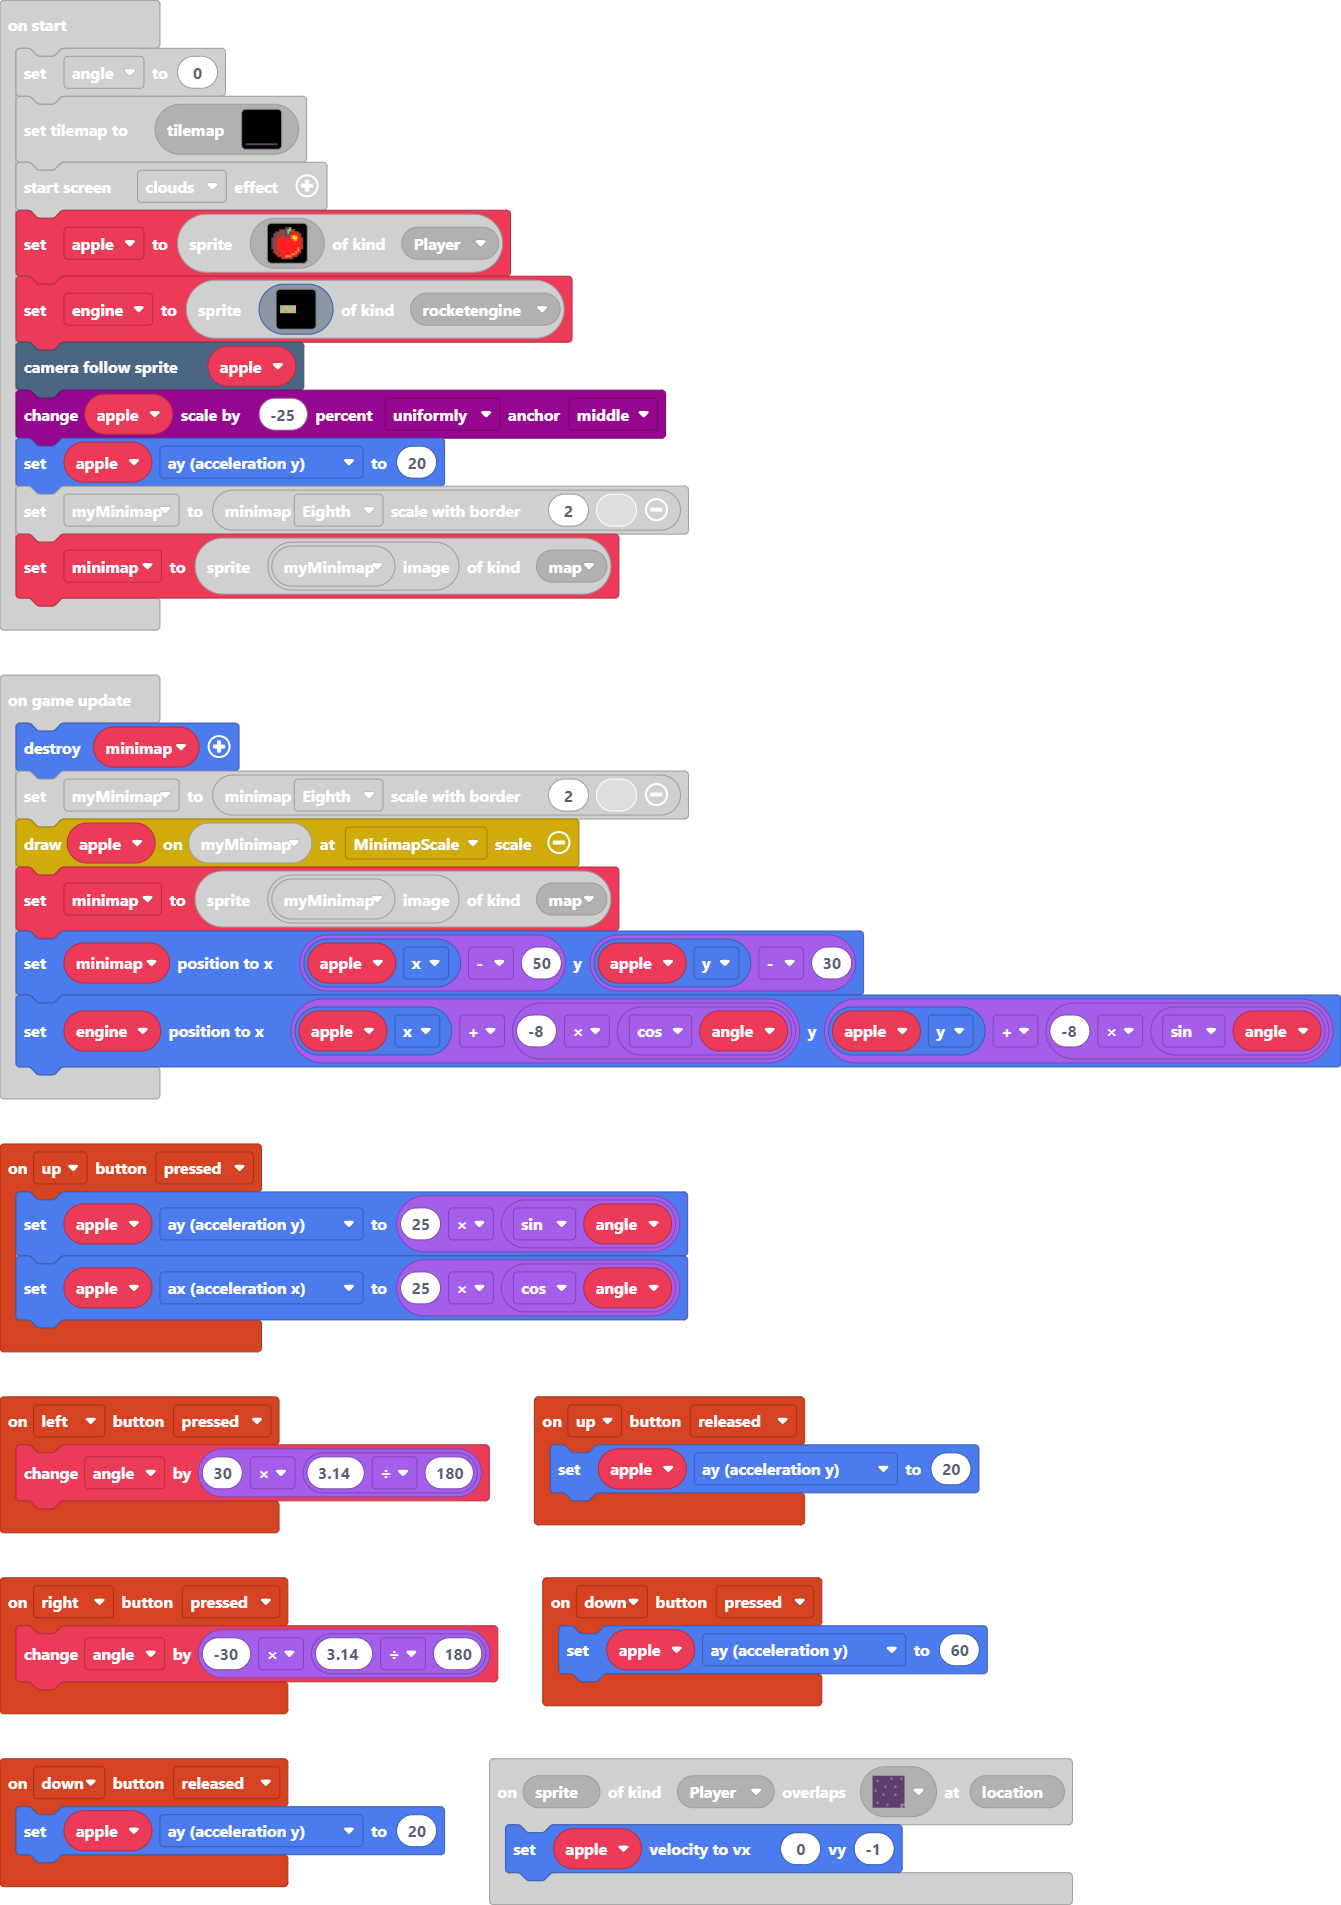
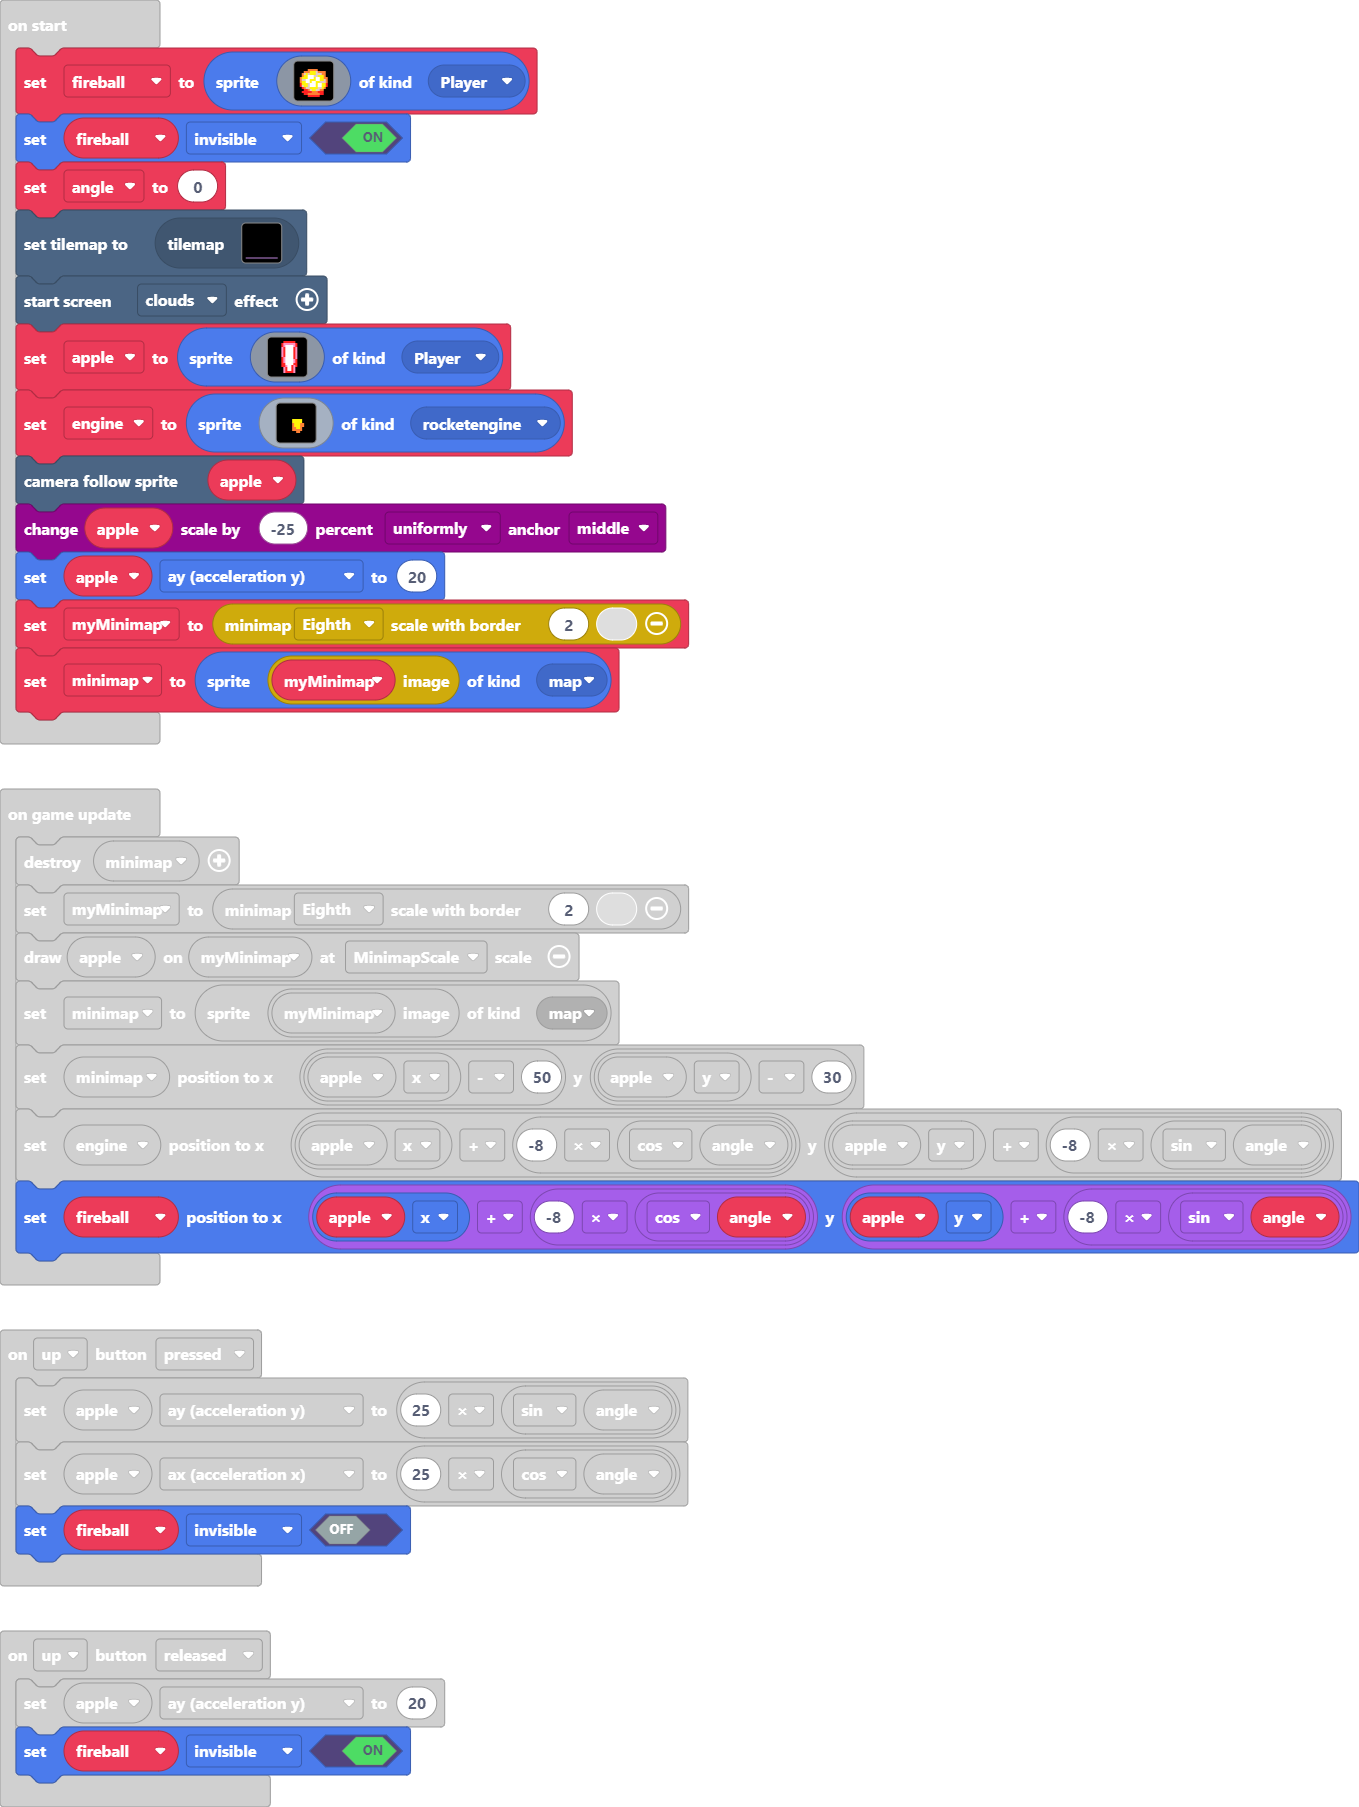
Update main.blocks, main.ts

diff --git a/main.ts b/main.ts
@@ -5,6 +5,7 @@ namespace SpriteKind {
 controller.up.onEvent(ControllerButtonEvent.Pressed, function () {
     apple.ay = 25 * Math.sin(angle)
     apple.ax = 25 * Math.cos(angle)
+    fireball.setFlag(SpriteFlag.Invisible, false)
 })
 controller.down.onEvent(ControllerButtonEvent.Released, function () {
     apple.ay = 20
@@ -20,36 +21,71 @@ controller.right.onEvent(ControllerButtonEvent.Pressed, function () {
 })
 controller.up.onEvent(ControllerButtonEvent.Released, function () {
     apple.ay = 20
+    fireball.setFlag(SpriteFlag.Invisible, true)
 })
 controller.down.onEvent(ControllerButtonEvent.Pressed, function () {
     apple.ay = 60
 })
 let apple: Sprite = null
 let angle = 0
+let fireball: Sprite = null
+fireball = sprites.create(img`
+    . . . . . . . . . . . . . . . . 
+    . . . . . . . . . . . . . . . . 
+    . . . . . 4 4 4 4 4 . . . . . . 
+    . . . 4 4 4 5 5 5 d 4 4 4 4 . . 
+    . . 4 d 5 d 5 5 5 d d d 4 4 . . 
+    . . 4 5 5 1 1 1 d d 5 5 5 4 . . 
+    . 4 5 5 5 1 1 1 5 1 1 5 5 4 4 . 
+    . 4 d d 1 1 5 5 5 1 1 5 5 d 4 . 
+    . 4 5 5 1 1 5 1 1 5 5 d d d 4 . 
+    . 2 5 5 5 d 1 1 1 5 1 1 5 5 2 . 
+    . 2 d 5 5 d 1 1 1 5 1 1 5 5 2 . 
+    . . 2 4 d d 5 5 5 5 d d 5 4 . . 
+    . . . 2 2 4 d 5 5 d d 4 4 . . . 
+    . . 2 2 2 2 2 4 4 4 2 2 2 . . . 
+    . . . 2 2 4 4 4 4 4 4 2 2 . . . 
+    . . . . . 2 2 2 2 2 2 . . . . . 
+    `, SpriteKind.Player)
+fireball.setFlag(SpriteFlag.Invisible, true)
 angle = 0
 tiles.setCurrentTilemap(tilemap`level1`)
 effects.clouds.startScreenEffect()
 apple = sprites.create(img`
-    . . . . . . . e c 7 . . . . . . 
-    . . . . e e e c 7 7 e e . . . . 
-    . . c e e e e c 7 e 2 2 e e . . 
-    . c e e e e e c 6 e e 2 2 2 e . 
-    . c e e e 2 e c c 2 4 5 4 2 e . 
-    c e e e 2 2 2 2 2 2 4 5 5 2 2 e 
-    c e e 2 2 2 2 2 2 2 2 4 4 2 2 e 
-    c e e 2 2 2 2 2 2 2 2 2 2 2 2 e 
-    c e e 2 2 2 2 2 2 2 2 2 2 2 2 e 
-    c e e 2 2 2 2 2 2 2 2 2 2 2 2 e 
-    c e e 2 2 2 2 2 2 2 2 2 2 4 2 e 
-    . e e e 2 2 2 2 2 2 2 2 2 4 e . 
-    . 2 e e 2 2 2 2 2 2 2 2 4 2 e . 
-    . . 2 e e 2 2 2 2 2 4 4 2 e . . 
-    . . . 2 2 e e 4 4 4 2 e e . . . 
-    . . . . . 2 2 e e e e . . . . . 
+    . . . . . . 2 2 2 2 2 2 . . . . 
+    . . . . . 2 3 3 3 3 3 3 2 . . . 
+    . . . . . 2 3 1 1 1 1 3 2 . . . 
+    . . . . . 3 2 1 1 1 1 2 3 . . . 
+    . . . . . 3 2 1 1 1 1 2 3 . . . 
+    . . . . . 3 2 1 1 1 1 2 3 . . . 
+    . . . . . 3 2 1 1 1 1 2 3 . . . 
+    . . . . . 3 2 1 1 1 1 2 3 . . . 
+    . . . . . 2 3 1 1 1 1 2 3 . . . 
+    . . . . . 2 3 1 1 1 1 3 2 . . . 
+    . . . . . 2 3 1 1 1 1 3 2 . . . 
+    . . . . . 2 2 1 1 1 1 2 2 . . . 
+    . . . . . 2 2 3 1 1 2 3 2 . . . 
+    . . . . . . 3 2 1 1 2 3 . . . . 
+    . . . . . . 3 2 1 1 2 3 . . . . 
+    . . . . . . 3 2 2 2 2 3 . . . . 
     `, SpriteKind.Player)
 let engine = sprites.create(img`
-    7 3 7 3 . . . . 
-    3 7 3 7 . . . . 
+    . . . . . . . . . . . . . . . . 
+    . . . . . . . . . . . . . . . . 
+    . . . . . . . . . . . . . . . . 
+    . . . . . . . . . . . . . . . . 
+    . . . . . . . . . . . . . . . . 
+    . . . . . . . . . . . . . . . . 
+    . . . . . . 5 5 5 5 5 . . . . . 
+    . . . . . . 5 5 5 5 5 . . . . . 
+    . . . . . . 4 5 5 5 4 4 . . . . 
+    . . . . . . 4 5 5 5 4 4 . . . . 
+    . . . . . . 4 4 5 5 4 . . . . . 
+    . . . . . . 4 4 4 4 4 . . . . . 
+    . . . . . . . . 4 4 . . . . . . 
+    . . . . . . . . . . . . . . . . 
+    . . . . . . . . . . . . . . . . 
+    . . . . . . . . . . . . . . . . 
     `, SpriteKind.rocketengine)
 scene.cameraFollowSprite(apple)
 scaling.scaleByPercent(apple, -25, ScaleDirection.Uniformly, ScaleAnchor.Middle)
@@ -63,4 +99,5 @@ game.onUpdate(function () {
     minimap2 = sprites.create(minimap.getImage(myMinimap), SpriteKind.map)
     minimap2.setPosition(apple.x - 50, apple.y - 30)
     engine.setPosition(apple.x + -8 * Math.cos(angle), apple.y + -8 * Math.sin(angle))
+    fireball.setPosition(apple.x + -8 * Math.cos(angle), apple.y + -8 * Math.sin(angle))
 })
